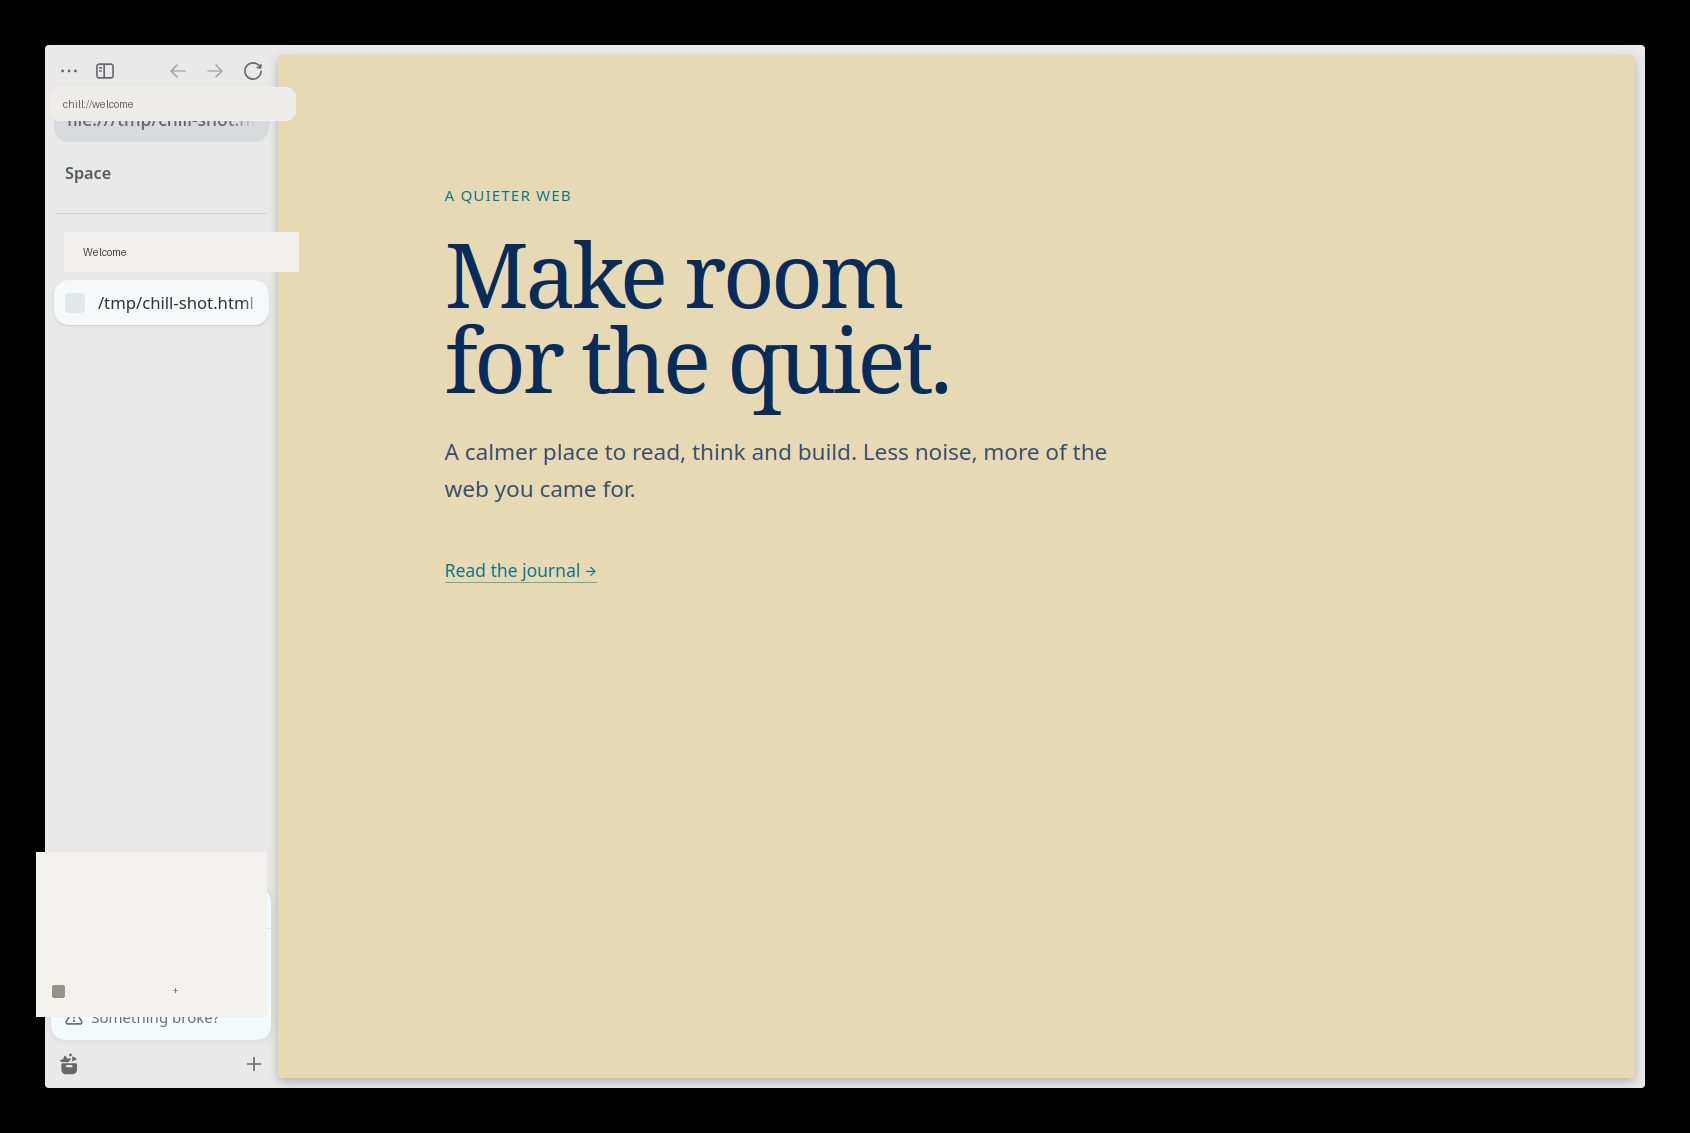
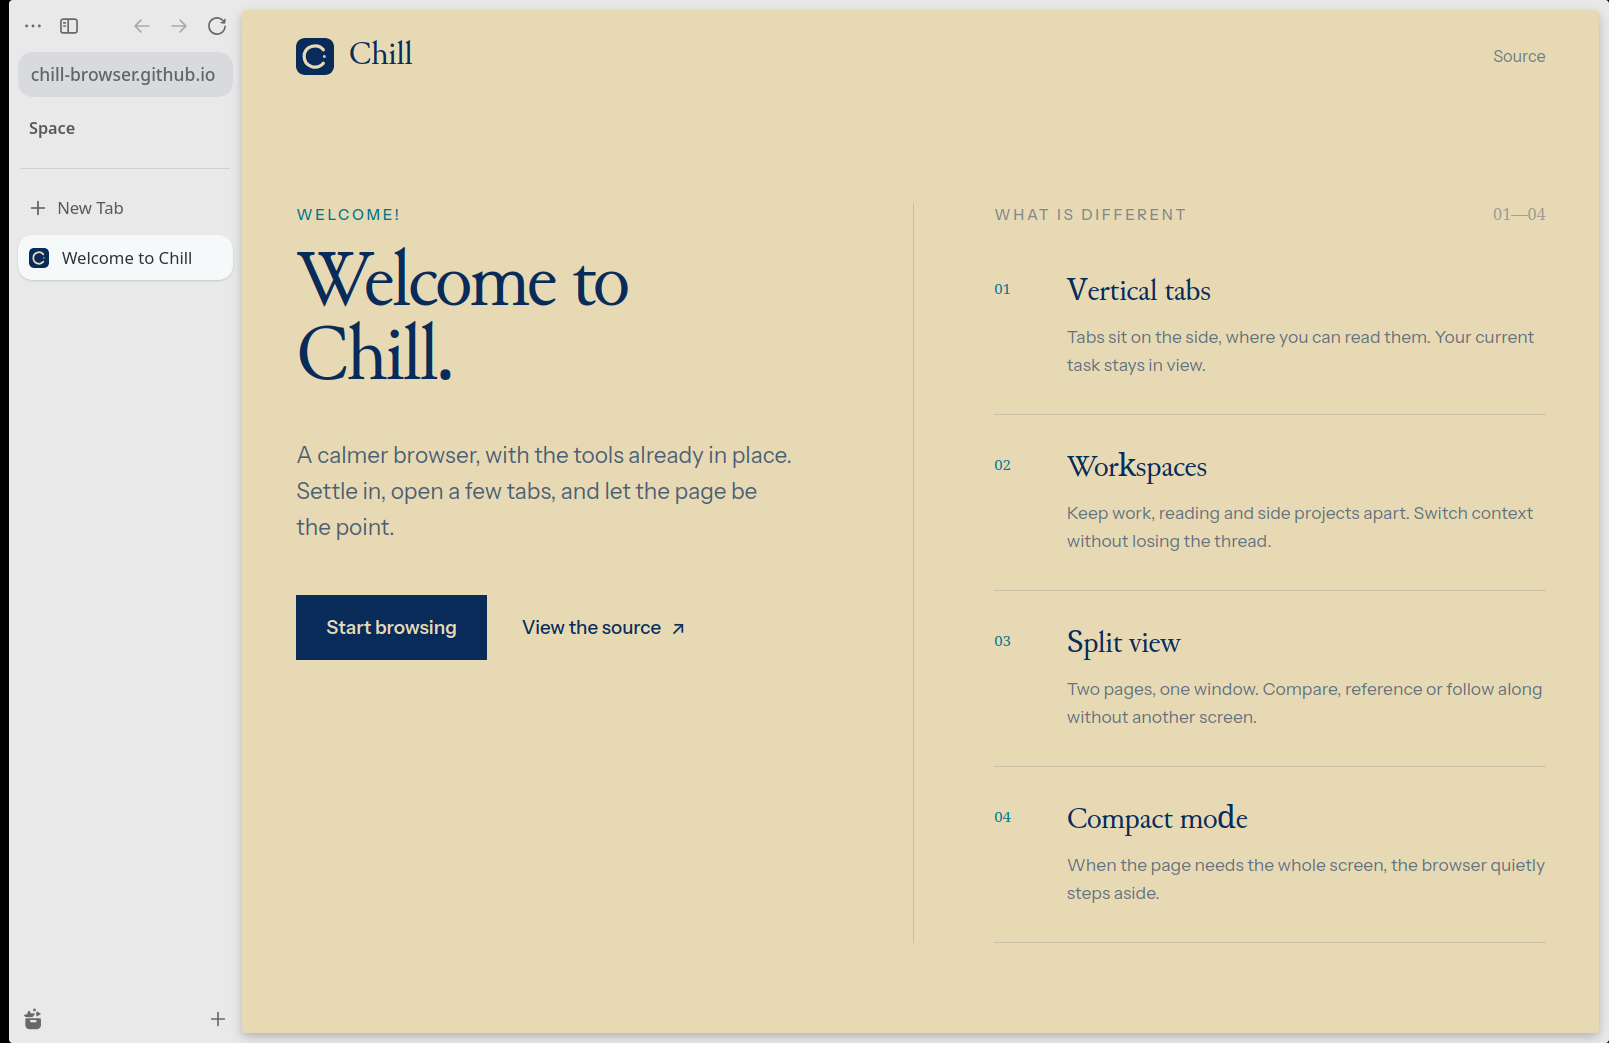
site: use the clean first-run print

diff --git a/src/lib/Browser.svelte b/src/lib/Browser.svelte
@@ -63,7 +63,7 @@
         width="1609"
         height="1043"
         alt="Chill Browser with vertical tabs and workspaces."
-        class="print-frame h-[420px] w-full object-cover object-left-top sm:h-[520px] lg:h-[min(58vh,600px)]"
+        class="print-frame w-full"
       />
       <figcaption class="relative z-[1] mt-3 text-[12px] text-navy/55">The browser, with the quiet parts kept.</figcaption>
     </figure>
